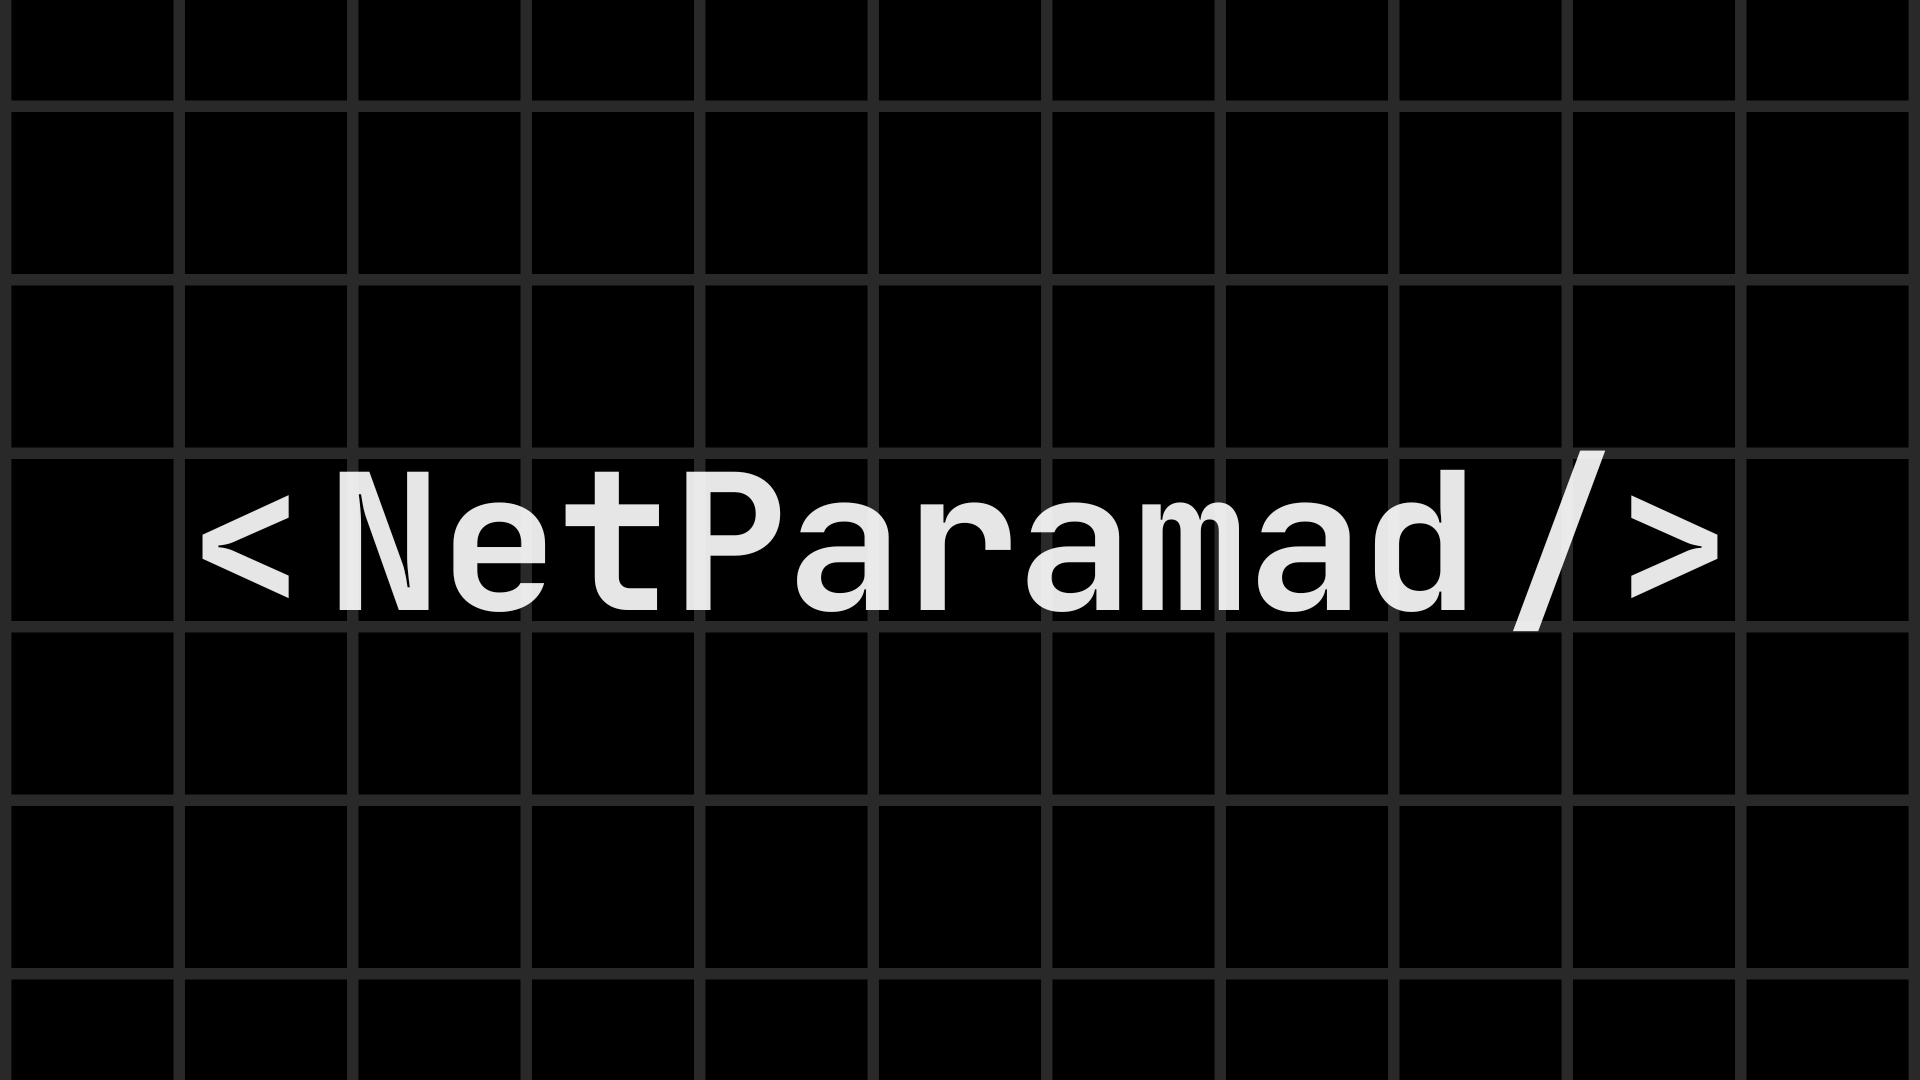
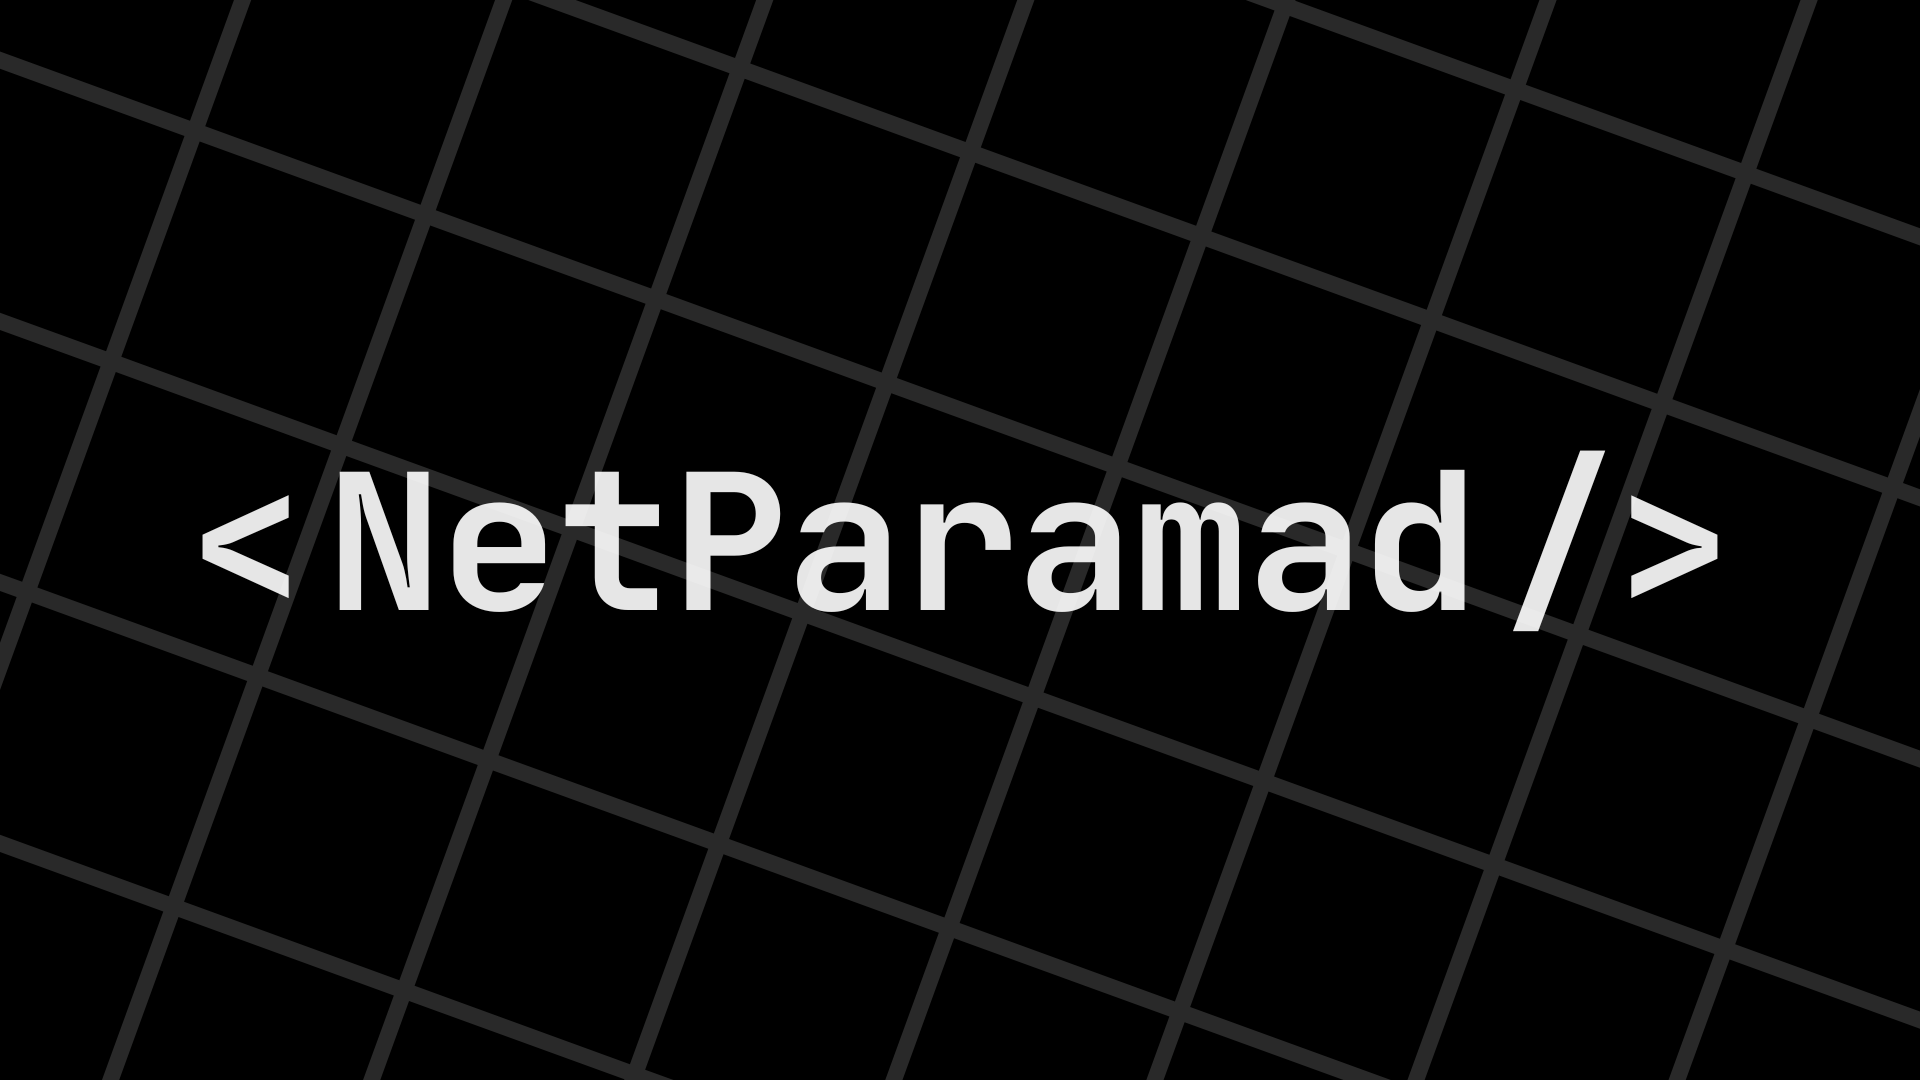
fix: update website section in README.md and replace wallpaper image

Changed region(s): [[0.0, 0.0, 1.0, 1.0], [0.4062, 0.4889, 0.4375, 0.5194]]

diff --git a/README.md b/README.md
@@ -20,4 +20,9 @@
 
     netpramad@gmail.com
 
-[![NetParamad](./images/wallpaper.png)](https://netparamad.vercel.app/)
+###### Website
+<p align="center">
+  <a href="https://netparamad.vercel.app/">
+    <img src="./images/wallpaper.png" alt="NetParamad" width="80%">
+  </a>
+</p>
